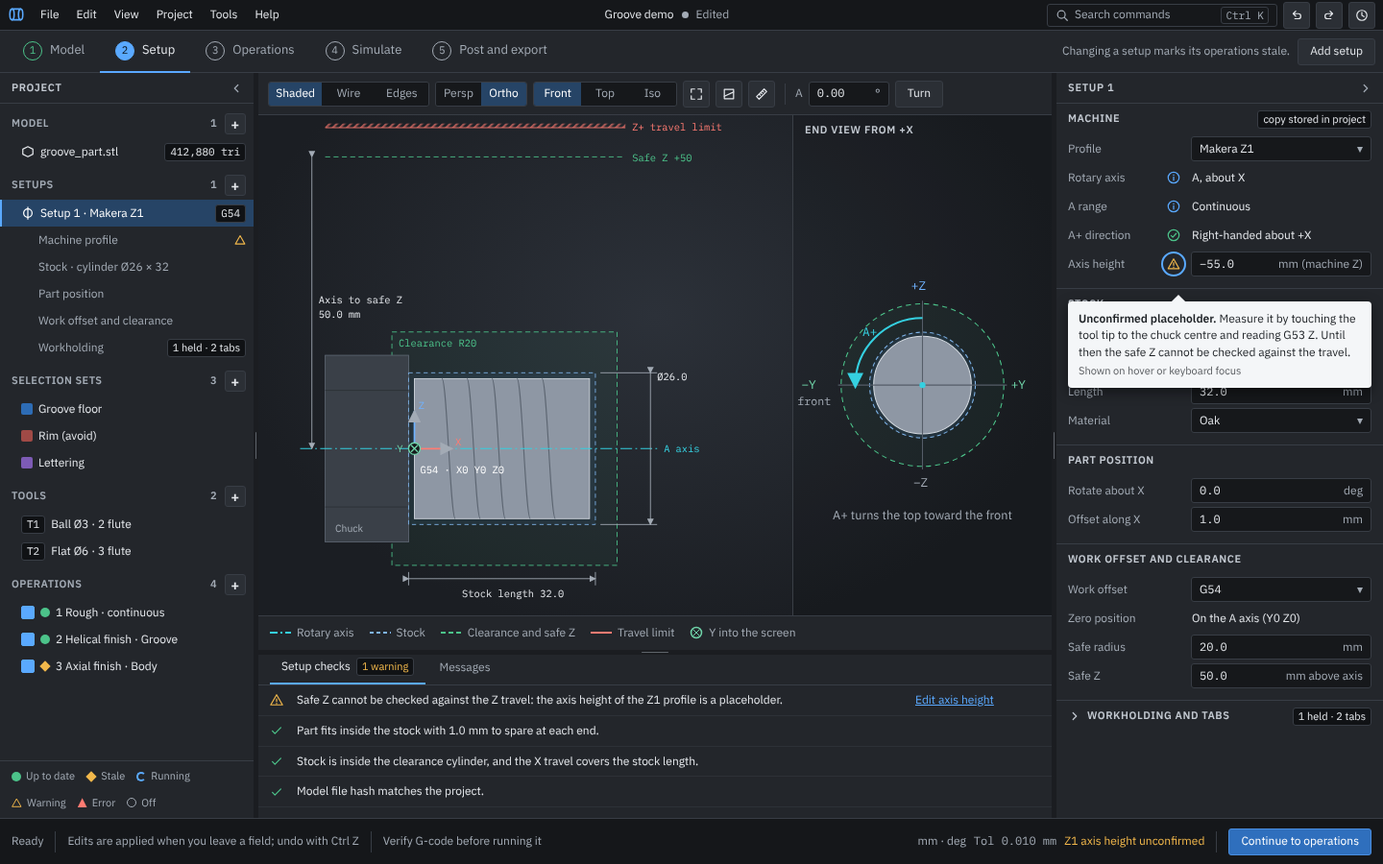
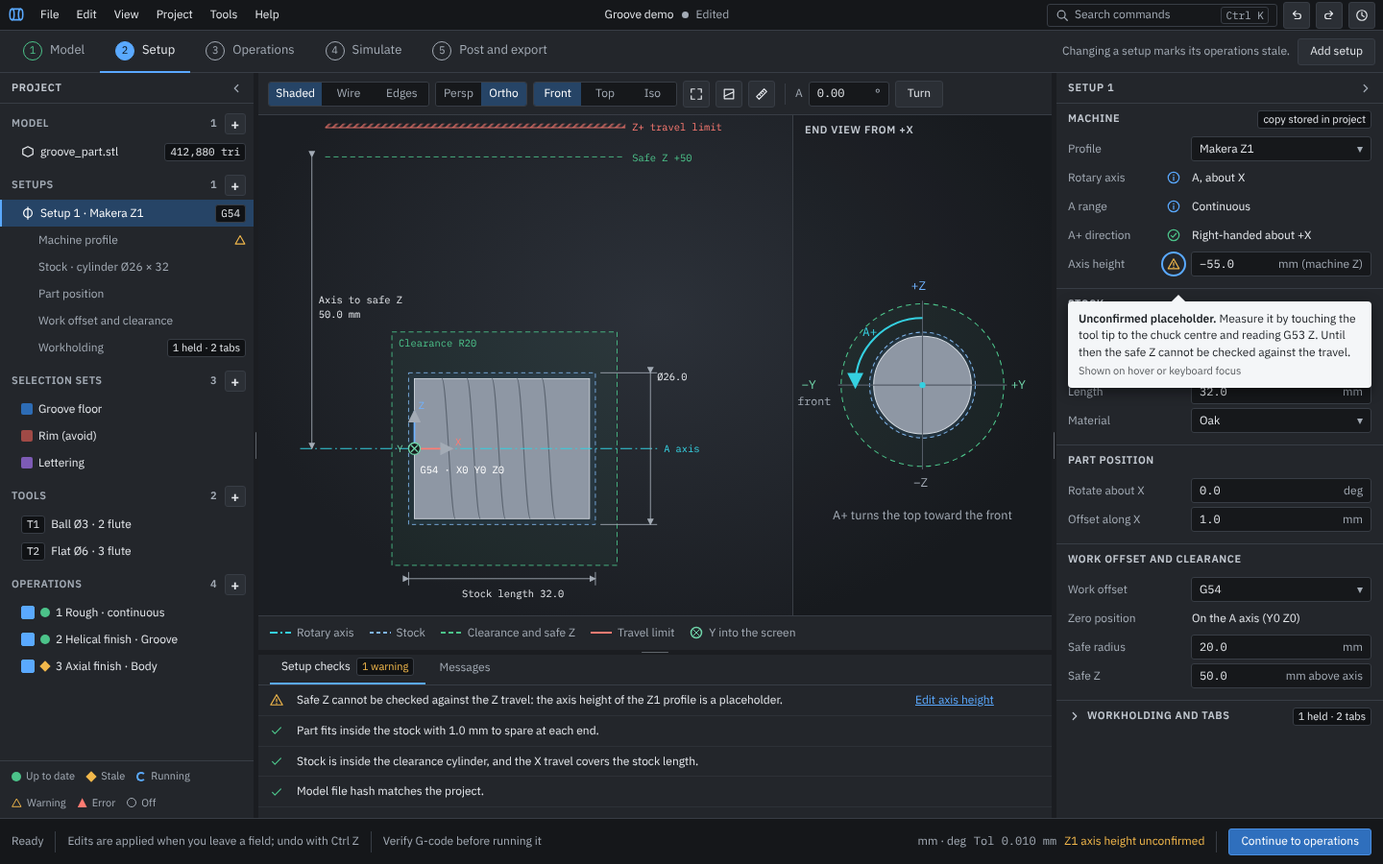
Lane X5: re-render boards 02 and 16 without the chuck; decision 0129 final (OI-380)
Claude-Session: https://claude.ai/code/session_01DkJQGyqvke6sMEW3YpqfuY

Changed region(s): [[0.2188, 0.4044, 0.3125, 0.6533]]

diff --git a/docs/ui-design/mockups/source/Workholding.dc.html b/docs/ui-design/mockups/source/Workholding.dc.html
@@ -170,7 +170,7 @@ button{font:inherit;color:inherit;cursor:pointer}
       <div style="flex:1;min-height:0;display:flex;background:radial-gradient(ellipse at 50% 40%,#2c3139 0%,#1b1e23 75%)">
         <div style="flex:1;min-width:0;overflow:hidden;position:relative">
           <span class="vchip">Showing unapplied workholding</span>
-          <svg viewBox="0 0 560 600" width="100%" height="100%" role="img" aria-label="Front view of the setup: chuck gripping 6 mm of the stock (the held region, cross-hatched violet), the head tab between the held region and the part, the part, and three tail tabs around the axis, one drawn in red because the unapplied draft refuses it">
+          <svg viewBox="0 0 560 600" width="100%" height="100%" role="img" aria-label="Front view of the setup: 6 mm of the stock held (the held region, cross-hatched violet), the head tab between the held region and the part, the part, and three tail tabs around the axis, one drawn in red because the unapplied draft refuses it">
             <defs><marker id="ar" markerWidth="8" markerHeight="8" refX="7" refY="4" orient="auto"><path d="M0 0L8 4L0 8z" fill="#a3abb5"/></marker>
             <pattern id="trv" width="6" height="6" patternUnits="userSpaceOnUse" patternTransform="rotate(45)"><rect width="2.5" height="6" fill="#ff7b72" opacity=".6"/></pattern>
             <pattern id="held" width="6" height="6" patternUnits="userSpaceOnUse"><path d="M0 0L6 6M6 0L0 6" stroke="#9d8df1" stroke-width="1"/></pattern></defs>
@@ -183,8 +183,6 @@ button{font:inherit;color:inherit;cursor:pointer}
               <text x="440" y="278" fill="#4cc38a" font-size="12" font-family="IBM Plex Mono">Clearance R20</text>
               <rect x="340" y="309" width="280" height="182" fill="rgba(90,169,255,.07)" stroke="#7fb4ea" stroke-dasharray="5 4"/>
               <rect x="340" y="309" width="42" height="182" fill="rgba(157,141,241,.35)"/><rect x="340" y="309" width="42" height="182" fill="url(#held)"/><rect x="340" y="309" width="42" height="182" fill="none" stroke="#9d8df1" stroke-width="1.5"/>
-              <rect x="300" y="288" width="58" height="40" fill="#3a4048" stroke="#5d6672"/><rect x="300" y="472" width="58" height="40" fill="#3a4048" stroke="#5d6672"/><rect x="290" y="328" width="50" height="144" fill="#3a4048" stroke="#5d6672"/>
-              <text x="296" y="528" fill="#a3abb5" font-size="12" font-family="IBM Plex Sans">Chuck</text>
               <path d="M382 330L396 365V435L382 470Z" fill="#d8b98a" stroke="#15171a" stroke-width="1.5"/>
               <rect x="396" y="316" width="168" height="168" fill="#8e97a4" stroke="#d3d9e0"/>
               <path d="M424 316C430 316 434 484 440 484M454 316C460 316 464 484 470 484M484 316C490 316 494 484 500 484M514 316C520 316 524 484 530 484" fill="none" stroke="#5d6672" stroke-width="1.3"/>

diff --git a/docs/ui-design/mockups/source/Setup.dc.html b/docs/ui-design/mockups/source/Setup.dc.html
@@ -155,7 +155,7 @@ button{font:inherit;color:inherit;cursor:pointer}
       </div>
       <div style="flex:1;min-height:0;display:flex;background:radial-gradient(ellipse at 50% 40%,#2c3139 0%,#1b1e23 75%)">
         <div style="flex:1;min-width:0;overflow:hidden">
-          <svg viewBox="0 0 560 600" width="100%" height="100%" role="img" aria-label="Front view of the setup with X, Y and Z axes: chuck, stock, part, rotary axis, work zero, clearance cylinder and safe Z">
+          <svg viewBox="0 0 560 600" width="100%" height="100%" role="img" aria-label="Front view of the setup with X, Y and Z axes: stock, part, rotary axis, work zero, clearance cylinder and safe Z">
             <defs><marker id="ar" markerWidth="8" markerHeight="8" refX="7" refY="4" orient="auto"><path d="M0 0L8 4L0 8z" fill="#a3abb5"/></marker>
             <pattern id="trv" width="6" height="6" patternUnits="userSpaceOnUse" patternTransform="rotate(45)"><rect width="2.5" height="6" fill="#ff7b72" opacity=".6"/></pattern></defs>
             <g transform="translate(-260 0)">
@@ -165,9 +165,6 @@ button{font:inherit;color:inherit;cursor:pointer}
               <text x="668" y="55" fill="#4cc38a" font-size="12" font-family="IBM Plex Mono">Safe Z +50</text>
               <rect x="380" y="260" width="270" height="280" fill="rgba(76,195,138,.06)" stroke="#4cc38a" stroke-dasharray="6 4"/>
               <text x="388" y="278" fill="#4cc38a" font-size="12" font-family="IBM Plex Mono">Clearance R20</text>
-              <rect x="300" y="288" width="100" height="224" fill="#3a4048" stroke="#5d6672"/>
-              <path d="M300 330H400M300 470H400" stroke="#2c3036"/>
-              <text x="312" y="500" fill="#a3abb5" font-size="12" font-family="IBM Plex Sans">Chuck</text>
               <rect x="400" y="309" width="224" height="182" fill="rgba(90,169,255,.07)" stroke="#7fb4ea" stroke-dasharray="5 4"/>
               <rect x="407" y="316" width="210" height="168" fill="#8e97a4" stroke="#d3d9e0"/>
               <path d="M440 316C446 316 450 484 456 484M470 316C476 316 480 484 486 484M500 316C506 316 510 484 516 484M530 316C536 316 540 484 546 484M560 316C566 316 570 484 576 484" fill="none" stroke="#5d6672" stroke-width="1.3"/>

diff --git a/docs/open-items.md b/docs/open-items.md
@@ -169,7 +169,7 @@ States: *open* (needs work or a decision), *proposed* (a recommendation awaits a
 | OI-334 | What of OI-325 slice 21d item 3 did not build; the differences from [interface specification](ui-design/ui-specification.md) sections 7.5 and 11.7 that remain (D13). **Layout (slice 22 and the shell work, OI-325 a, b, c, as agreed there):** the panel is still the setup's whole inspector, headed "Workholding and tabs" with the count and "Not applied" chips, not the fifth section of the setup inspector; the tree has no "Workholding" child row with its chip and marks; fields are drag values and a text field with its own labels, not the section 8 field rows (120-pixel label column, unit inside the field, range in the tooltip); a tab row has Duplicate and Remove buttons, not a row menu on right click or the menu key; Add tab does not focus the new row's Start X. **Needs the part's extent in the panel:** the read-only head and tail zone lines (d), the line saying which end of a frustum faces the part (c), a default tab's per-zone "No room for a default tab at the head: ..." lines (e; the panel shows one sentence for both zones, and the library's message for a part that comes to a point is in lower case), and the Narrowest line compared with the tools; these need an application call that returns the placed part's extent for a setup as a job. **Checks:** a check's findings are a flat list under the button, not on the tab's row with the Warning or Error mark (i); they name the tool with its controller number but not the operation's number; the check's Cancel drops the result but does not cancel the job (j); Esc in a field does not put back its last value, and fields store on every change, not on focus loss or Enter (k). **Draft in the view (k):** the viewport draws the setup's stored workholding, not the draft, with no "Showing unapplied workholding" chip and no red outline for a failing tab; a focused row does not outline its solid. **Selection warning (l):** shown only in the operation's panel, above the form, with "Edit workholding" but not "Show in view", not under the Geometry role, not in the workholding section ("Reached by the selections of ...") and not in the messages panel (D10, not built). **Viewport (m, n):** the hatch is world-space lines on the wall (8 each way), not a 6-pixel screen hatch, and the outlines are the renderer's line width, not 1.5 pixels; the legend is one overlay at the bottom left of the view on every step, not the Setup legend strip, the Operations path legend and the Simulate colour scale legend; no show or hide entry, no hover outline or tooltip, no click selection with the inspector opening, not outlines only while picking, and on Simulate they are shaded solids, not outlines over the deviation colours; a workholding that cannot be built is a note in the view, not a message with an action. **Setup step (o):** the front and end panes (11.3) are not built, so neither is their drawing. **Verification:** the UI smoke test (`ui-smoke`) does not open the workholding panel (verification plan, UI-25); the tests that name UI-25 run the panel and the viewport on view models. | [Interface specification](ui-design/ui-specification.md) sections 7.5, 11.7 and 17 (D13); work breakdown slice 21d item 3; OI-325 | open: inventoried in [decision 0114](decisions/0114-slice-22-conformance-report.md) section C (accepted), each item mapped to a proposed slice 22 lane (X3 to X6, X8). **Lane X3** ([decision 0119](decisions/0119-slice-22-viewport-drawing.md), accepted) built the viewport items m and n (the 6-pixel screen cross-hatch, 1.5-pixel silhouette outlines, the show or hide entry, hover outline and tooltip, click selection with a 3-pixel accent outline, outlines only while picking and on Simulate, the legends in the path legend and under the colour scale) and the drawing of k (the draft with its chip, failing solids in red, default tabs offered dashed); the wiring of k and of the click, the Setup legend strip and the cannot-be-built message are OI-355. **Lane X5** ([decision 0129](decisions/0129-slice-22-setup-panes.md), proposed) built item (o), the Setup step's front and end panes with the held regions and tabs in section, the draft chip and their legend strip; the default tabs offered in the panes are OI-383 | Slice 22's conformance report (layout and the Setup step, with the shell work D10); an application call for the part's extent (a lane that edits `openchuck-app`) | Lane O merged (it is); slice 22's component inventory |
 | OI-342 | Mock-ups behind the specification: board 2 (Setup) has no Workholding tree row or fifth inspector section and uses the stale diamond for a machine warning (D9); the Operations board and images 13 and 14 have the selection tools from before decision 0066; board 2c's legend shows "Refused in the draft", which 7.5 does not list; image 17 needs the OI-341 widths; board 1b, board 4, image 15, the Selection sets board and board 5 lag the OI-340 edits. The agent of each slice 22 lane re-renders the boards that lane needs, as step 1 of the lane, from their sources in `docs/ui-design/mockups/source/`, and commits the sources and images (owner's answer 8 as corrected; the per-lane files and how to render are in decision 0114 section E). Every board is a file in the repository; none exists only on the owner's canvas. | [Decision 0114](decisions/0114-slice-22-conformance-report.md) section E, F item 8 | open: lane X3 re-rendered `Main.dc.html` (images 03, 13, 14) and `HeldRegionsView.dc.html` (image 17) ([decision 0119](decisions/0119-slice-22-viewport-drawing.md) item 1); the other lanes' boards remain | Each slice 22 lane, as its step 1 | – |
 | OI-334 | What of OI-325 slice 21d item 3 did not build; the differences from [interface specification](ui-design/ui-specification.md) sections 7.5 and 11.7 that remain (D13). **Layout (slice 22 and the shell work, OI-325 a, b, c, as agreed there):** the panel is still the setup's whole inspector, headed "Workholding and tabs" with the count and "Not applied" chips, not the fifth section of the setup inspector; the tree has no "Workholding" child row with its chip and marks; fields are drag values and a text field with its own labels, not the section 8 field rows (120-pixel label column, unit inside the field, range in the tooltip); a tab row has Duplicate and Remove buttons, not a row menu on right click or the menu key; Add tab does not focus the new row's Start X. **Needs the part's extent in the panel:** the read-only head and tail zone lines (d), the line saying which end of a frustum faces the part (c), a default tab's per-zone "No room for a default tab at the head: ..." lines (e; the panel shows one sentence for both zones, and the library's message for a part that comes to a point is in lower case), and the Narrowest line compared with the tools; these need an application call that returns the placed part's extent for a setup as a job. **Checks:** a check's findings are a flat list under the button, not on the tab's row with the Warning or Error mark (i); they name the tool with its controller number but not the operation's number; the check's Cancel drops the result but does not cancel the job (j); Esc in a field does not put back its last value, and fields store on every change, not on focus loss or Enter (k). **Draft in the view (k):** the viewport draws the setup's stored workholding, not the draft, with no "Showing unapplied workholding" chip and no red outline for a failing tab; a focused row does not outline its solid. **Selection warning (l):** shown only in the operation's panel, above the form, with "Edit workholding" but not "Show in view", not under the Geometry role, not in the workholding section ("Reached by the selections of ...") and not in the messages panel (D10, not built). **Viewport (m, n):** the hatch is world-space lines on the wall (8 each way), not a 6-pixel screen hatch, and the outlines are the renderer's line width, not 1.5 pixels; the legend is one overlay at the bottom left of the view on every step, not the Setup legend strip, the Operations path legend and the Simulate colour scale legend; no show or hide entry, no hover outline or tooltip, no click selection with the inspector opening, not outlines only while picking, and on Simulate they are shaded solids, not outlines over the deviation colours; a workholding that cannot be built is a note in the view, not a message with an action. **Setup step (o):** the front and end panes (11.3) are not built, so neither is their drawing. **Verification:** the UI smoke test (`ui-smoke`) does not open the workholding panel (verification plan, UI-25); the tests that name UI-25 run the panel and the viewport on view models. | [Interface specification](ui-design/ui-specification.md) sections 7.5, 11.7 and 17 (D13); work breakdown slice 21d item 3; OI-325 | open: inventoried in [decision 0114](decisions/0114-slice-22-conformance-report.md) section C (accepted), each item mapped to a proposed slice 22 lane (X3 to X6, X8) | Slice 22's conformance report (layout and the Setup step, with the shell work D10); an application call for the part's extent (a lane that edits `openchuck-app`) | Lane O merged (it is); slice 22's component inventory |
-| OI-342 | Mock-ups behind the specification: board 2 (Setup) has no Workholding tree row or fifth inspector section and uses the stale diamond for a machine warning (D9); the Operations board and images 13 and 14 have the selection tools from before decision 0066; board 2c's legend shows "Refused in the draft", which 7.5 does not list; image 17 needs the OI-341 widths; board 1b, board 4, image 15, the Selection sets board and board 5 lag the OI-340 edits. The agent of each slice 22 lane re-renders the boards that lane needs, as step 1 of the lane, from their sources in `docs/ui-design/mockups/source/`, and commits the sources and images (owner's answer 8 as corrected; the per-lane files and how to render are in decision 0114 section E). Every board is a file in the repository; none exists only on the owner's canvas. | [Decision 0114](decisions/0114-slice-22-conformance-report.md) section E, F item 8 | open: lane X2 re-rendered boards 1 and 2 (images 01 and 02, 18 Oct 2026; [decision 0117](decisions/0117-slice-22-shell-frame.md)): the setup row's Warning mark, Setup's Workholding row and fifth section, and the footers to section 10; lane X5 re-rendered board 2c (image 16) without "Refused in the draft" ([decision 0129](decisions/0129-slice-22-setup-panes.md)); the other lanes' boards remain | Each slice 22 lane, as its step 1 | – |
+| OI-342 | Mock-ups behind the specification: board 2 (Setup) has no Workholding tree row or fifth inspector section and uses the stale diamond for a machine warning (D9); the Operations board and images 13 and 14 have the selection tools from before decision 0066; board 2c's legend shows "Refused in the draft", which 7.5 does not list; image 17 needs the OI-341 widths; board 1b, board 4, image 15, the Selection sets board and board 5 lag the OI-340 edits. The agent of each slice 22 lane re-renders the boards that lane needs, as step 1 of the lane, from their sources in `docs/ui-design/mockups/source/`, and commits the sources and images (owner's answer 8 as corrected; the per-lane files and how to render are in decision 0114 section E). Every board is a file in the repository; none exists only on the owner's canvas. | [Decision 0114](decisions/0114-slice-22-conformance-report.md) section E, F item 8 | open: lane X2 re-rendered boards 1 and 2 (images 01 and 02, 18 Oct 2026; [decision 0117](decisions/0117-slice-22-shell-frame.md)): the setup row's Warning mark, Setup's Workholding row and fifth section, and the footers to section 10; lane X5 re-rendered board 2c (image 16) without "Refused in the draft" and boards 2 and 2c without the chuck ([decision 0129](decisions/0129-slice-22-setup-panes.md)); the other lanes' boards remain | Each slice 22 lane, as its step 1 | – |
 | OI-345 | Requirement change following the owner's choice of two provenance states (OI-339): UI-13 "...whether it is confirmed on the machine, taken from a vendor profile, or an unconfirmed placeholder, with how to confirm it" to "...whether it is confirmed on the machine or not, with where the value came from and how to confirm it", and specification section 8's three icons to two (green tick, amber triangle) with the source in the tooltip. Exact wording in decision 0114 section F, answer 4. | [Decision 0114](decisions/0114-slice-22-conformance-report.md) F item 4 | proposed | Owner (wording), then a change to `requirements.md` and the specification | – |
 | OI-331 | The owner's blisk (`testdata/stl/blisk.stl`, Ø42 x 52 mm stock, 0.1 mm cell) with a 3 mm ball of 12 mm flutes, 3.175 mm shank and 0.3 mm stepover reports overcut after helical finishing (lane TE's tool, 8 mm flutes and 2 mm stepover, shows none beyond the cell, 0.0758 mm at most): worst 0.69 mm on 1,992 of 2,306,985 samples at a 5° angle step, 0.18 mm on 117 at 2° (lane BM, 18 Oct 2026). The overcut shrinks with the step, which suggests the path (chords between angle steps, OP-04) rather than the comparison, but nobody has checked where the overcut samples are. | [decision 0108](decisions/0108-deviation-samples-follow-the-area.md) | open | Helical finishing review, or lane TE's end-to-end run | The overcut places from `openchuck-cli simulate` on the blisk |
 | OI-326 | The nightly STEP mutation run (3,000 mutants, about 3.5 minutes) cannot reach the advisory 24 cumulative CPU hours of verification plan section 4.1 (advisory since decision 0107 item 7; the nightly run and its total are kept): it needs a time budget of about an hour a night (for example 50,000 mutants, or a run until a time), and a decision whether a mutation run through the importer counts as fuzzing for NFR-07. Decision 0107 makes each night use a new seed. | [decision 0107](decisions/0107-malformed-input-sweep-and-fuzz-hours.md) | open | Before the first release (slice 20 item 4) | Owner |
@@ -180,7 +180,7 @@ States: *open* (needs work or a decision), *proposed* (a recommendation awaits a
 | OI-346 | The unsaved-changes dialog (`with_unsaved_check` in the Open and New flow) and the window-close guard ask only `Application::is_modified()`, so an unapplied workholding draft (`WorkholdingPanel::has_unapplied_changes()`) is dropped without a prompt when a project is opened or the window closed. Pre-existing; CodeRabbit found it on #122 after lane 21d's `set_app` fix (#119). The owner left it out of #122. | `apps/openchuck-ui/src/shell.rs`; lane 21d (workholding UI) | open | Follow-up for the workholding UI | Owner |
 | OI-347 | `selection_panel.rs` `finish_writing` clears the working selection, the set name and the tangent choice after a background save job even when the user changed them while the job ran. Fix: capture the target and the model in `Write::Save` and clear only if they are unchanged. Pre-existing; found with OI-332's background save job; CodeRabbit (minor) on #121. The owner left it out of #121. | `apps/openchuck-ui/src/selection_panel.rs`; CodeRabbit on pull request 121 | open | Follow-up for the selection panel | Owner |
 | OI-355 | Wiring of lane X3's viewport interface into the shell and the inspector ([decision 0119](decisions/0119-slice-22-viewport-drawing.md), interface section). **Lane X2's part is done** (pull request 126, after 125 merged): the shell sets the view's step from its own every frame, the old toolbar strip is gone (`Viewport::show` draws the toolbar), the selected operation's avoid and check sets are drawn hatched, and the legend strip under the view on Model and Setup lists the held region and tab roles with `workholding_entries` and `swatch_for`, so the view no longer lists them in a box of its own. The View menu keeps its display entries (principle 9, UI-14). A workholding that cannot be built is an error message with "Edit workholding" from X2's project checks. **Lane X4:** on `PickInput::solid_click`, select the setup and open the workholding section with the item expanded and its first field focused (7.5); `set_focused_solid` for the row with keyboard focus; `set_selected_solid`; `set_workholding_draft` with the draft's solids, failing items and the default tabs offered (OI-334 k). | [Decision 0119](decisions/0119-slice-22-viewport-drawing.md) | open | Lanes X2 and X4 | X3 merged |
-| OI-380 | The Setup front view draws no chuck: the project holds no chuck geometry, and the owner wants no extra marking at this stage, since it would add clutter and the held region already shows what the chuck grips (19 Oct 2026, relayed by the coordinator; an exclusion zone was built first and removed). A deliberate difference from specification 11.3 and boards 2 and 2c, which draw a chuck. A chuck needs a later data change (where it is and how far it reaches; a lane of its own with a schema claim). | [Decision 0129](decisions/0129-slice-22-setup-panes.md) item 4 | deferred: no chuck until a data change | Owner, when a chuck is wanted | – |
+| OI-380 | The Setup front view draws no chuck: the project holds no chuck geometry, and the owner wants no extra marking at this stage, since it would add clutter and the held region already shows what the chuck grips (19 Oct 2026, relayed by the coordinator; an exclusion zone was built first and removed). Boards 2 and 2c are re-rendered without it; specification 11.3 still names the chuck, left for the owner's later edit, so the code differs from it deliberately. A chuck needs a later data change (where it is and how far it reaches; a lane of its own with a schema claim). | [Decision 0129](decisions/0129-slice-22-setup-panes.md) item 4 | deferred: no chuck until a data change | Owner, when a chuck is wanted | – |
 | OI-381 | The Setup panes are orthographic views at A = 0, so they do not turn with the part as 7.5 says the held regions and tabs do in the machine view and with "Turn part to A" (UI-21, P2). The owner chose to leave that to the 3D view (19 Oct 2026, relayed by the coordinator). | [Decision 0129](decisions/0129-slice-22-setup-panes.md) item 6 | closed 19 Oct 2026 by the owner's choice; recorded in 0129 (proposed) | – | – |
 | OI-382 | The Setup panes have no viewport toolbar strip, though board 2 shows one over the front pane: its controls act on the 3D view. The owner chose none for the first release (19 Oct 2026, relayed by the coordinator). | [Decision 0129](decisions/0129-slice-22-setup-panes.md) item 5 | closed 19 Oct 2026 by the owner's choice; recorded in 0129 (proposed) | – | – |
 | OI-383 | The default tabs offered and not added (7.5, 11.7) are not drawn in the Setup panes: the draft carries them as meshes with no `SolidSection`. | [Decision 0129](decisions/0129-slice-22-setup-panes.md) item 7 | open | Lane X4, when it passes the draft (OI-355) | X4 merged |

diff --git a/docs/decisions/0129-slice-22-setup-panes.md b/docs/decisions/0129-slice-22-setup-panes.md
@@ -14,7 +14,7 @@ Requirements: UI-03, UI-25, SET-01, SET-03, SET-05, SET-06, SET-09, NFR-07 and N
 
 ## Decision
 
-1. **The board first (OI-342).** `Workholding.dc.html` (image 16) loses "Refused in the draft" from its legend: specification 7.5 lists only the held region and the tab. The solid that fails a check keeps its red outline in the panes, as 7.5 says. The image was rendered again with headless Chromium at 1440 by 900, with the bundled IBM Plex files in place of Google Fonts. (Plex Medium is not bundled, so weight 500 text uses Regular.)
+1. **The boards first (OI-342).** `Workholding.dc.html` (image 16) loses "Refused in the draft" from its legend, and both it and `Setup.dc.html` (image 02) lose the chuck (item 4): specification 7.5 lists only the held region and the tab. The solid that fails a check keeps its red outline in the panes, as 7.5 says. The image was rendered again with headless Chromium at 1440 by 900, with the bundled IBM Plex files in place of Google Fonts. (Plex Medium is not bundled, so weight 500 text uses Regular.)
 2. **A view model in `openchuck-app`.** `openchuck_app::setup_panes` is new. `setup_panes(project, view, solids, failing)` returns plain 2D data in millimetres, in the model frame, for the setup a scene shows:
    - **Front view (from −Y; right is +X, up is +Z):** the stock's bounds, the part's side silhouette, the rotary axis, the work zero, the clearance cylinder (the setup's or the machine's, SET-06) with its radius, the safe Z, the Z+ travel limit, the held regions and tabs as outlines (a rectangle or a trapezoid), and the dimensions (stock length, stock diameter, axis to safe Z, "Held 6.000").
    - **End view (from +X; right is +Y, up is +Z):** the stock as a circle or a rectangle, the part's radius, the clearance circle, each tab as a circle at its largest diameter and its place, the A+ arc from the shared kinematics (the convention the posts use), and the first tab around the axis with "Start 90.00°", measured from +Y towards +Z (7.5).
@@ -27,7 +27,7 @@ Requirements: UI-03, UI-25, SET-01, SET-03, SET-05, SET-06, SET-09, NFR-07 and N
    - **Hover and selection.** Pointing at a solid outlines it 2 pixels in hover yellow and opens its tooltip (7.5); a solid with keyboard focus in the inspector is outlined as a hover; the selected solid has the 3-pixel accent outline. A click selects it and is reported as the view's click is (`PickInput::solid_click`), so lane X4's wiring (OI-355) serves both.
    - **The draft.** The panes draw the draft's solids while the viewport holds one, with the chip "Showing unapplied workholding" at the top left (11.7).
    - **The shell** draws the panes in place of the 3D view on Setup, with the legend strip's entries from the view model (a swatch drawn the way each role is drawn). Other steps are unchanged.
-4. **No chuck is drawn (OI-380, decided by the owner, relayed by the coordinator on 19 Oct 2026).** The project holds no chuck geometry, and the owner wants no extra chuck marking at this stage, since it would add visual clutter: the held region stays the only indication of what the chuck grips. This replaces the owner's first answer, an exclusion zone (built, then removed in this change), and is the original option B. It is a deliberate difference from specification 11.3, which lists the chuck, and from boards 2 and 2c (images 02 and 16), which draw one. A chuck needs a later data change (where it is and how far it reaches, a lane of its own with a schema claim).
+4. **No chuck is drawn (OI-380, decided by the owner, relayed by the coordinator on 19 Oct 2026).** The project holds no chuck geometry, and the owner wants no extra chuck marking at this stage, since it would add visual clutter: the held region stays the only indication of what the chuck grips. This replaces the owner's first answer, an exclusion zone (built, then removed in this change), and is the original option B. Boards 2 and 2c (`Setup.dc.html`, `Workholding.dc.html`; images 02 and 16) are re-rendered without the chuck, so they match. Specification 11.3 still lists the chuck in the front view's contents: that text is left for the owner's later edit, and until then the code differs from it deliberately. A chuck needs a later data change (where it is and how far it reaches, a lane of its own with a schema claim).
 5. **No viewport toolbar on the panes (OI-382, decided by the owner, relayed by the coordinator on 19 Oct 2026: option A, none for the first release).** Specification 11.3 says "two panes side by side" and board 2 shows the toolbar strip over the front pane. The toolbar's controls (shaded, wire, projection, standard views, fit, show or hide, turn part to A) act on the 3D view, so the panes have none. Options: (A) as built; (B) keep the strip and make "Fit" and "Show or hide" act on the panes. Chosen: A.
 6. **The panes do not turn with A (OI-381, decided by the owner, relayed by the coordinator on 19 Oct 2026: option A).** Specification 7.5 says the solids turn with the part "in the machine view and with Turn part to A (UI-21, P2)". The panes are orthographic views at A = 0, the stored placement, which is what the setup edits (the first tab's "Start 90.00°" is an angle of the stored placement). Chosen: leave UI-21 (P2) to the 3D view.
 7. **Default tabs offered are not in the panes yet (OI-383).** 7.5 draws them as dashed sand outlines in the view. The draft carries them as meshes without a section, so the panes need `SolidSection` on them too, which is lane X4's wiring of the draft. Until then the panes show the stored or draft tabs only.
@@ -41,6 +41,6 @@ Requirements: UI-03, UI-25, SET-01, SET-03, SET-05, SET-06, SET-09, NFR-07 and N
 
 - `docs/open-items.md`: OI-380 to OI-383 added; OI-334's item (o) and OI-342's image 16 noted.
 - `docs/work-breakdown.md`: lane X5's row and parallel-work row.
-- `docs/ui-design/mockups/source/Workholding.dc.html` and `mockups/16-workholding.png` re-rendered.
+- `docs/ui-design/mockups/source/Workholding.dc.html` and `Setup.dc.html`, with `mockups/16-workholding.png` and `mockups/02-setup.png`, re-rendered.
 - Tests: `crates/openchuck-app/tests/setup_panes.rs` and the unit tests of `setup_panes.rs` in both crates, and `req_ui_03_the_setup_step_shows_the_front_and_end_panes_with_their_legend` in the shell's frame tests. Pixel widths, contrast and the look of the hatch are *(display)* checks for lane X8.
 - Not verified: no display was available to see the panes drawn; the geometry and the shapes are tested, the picture is not.
